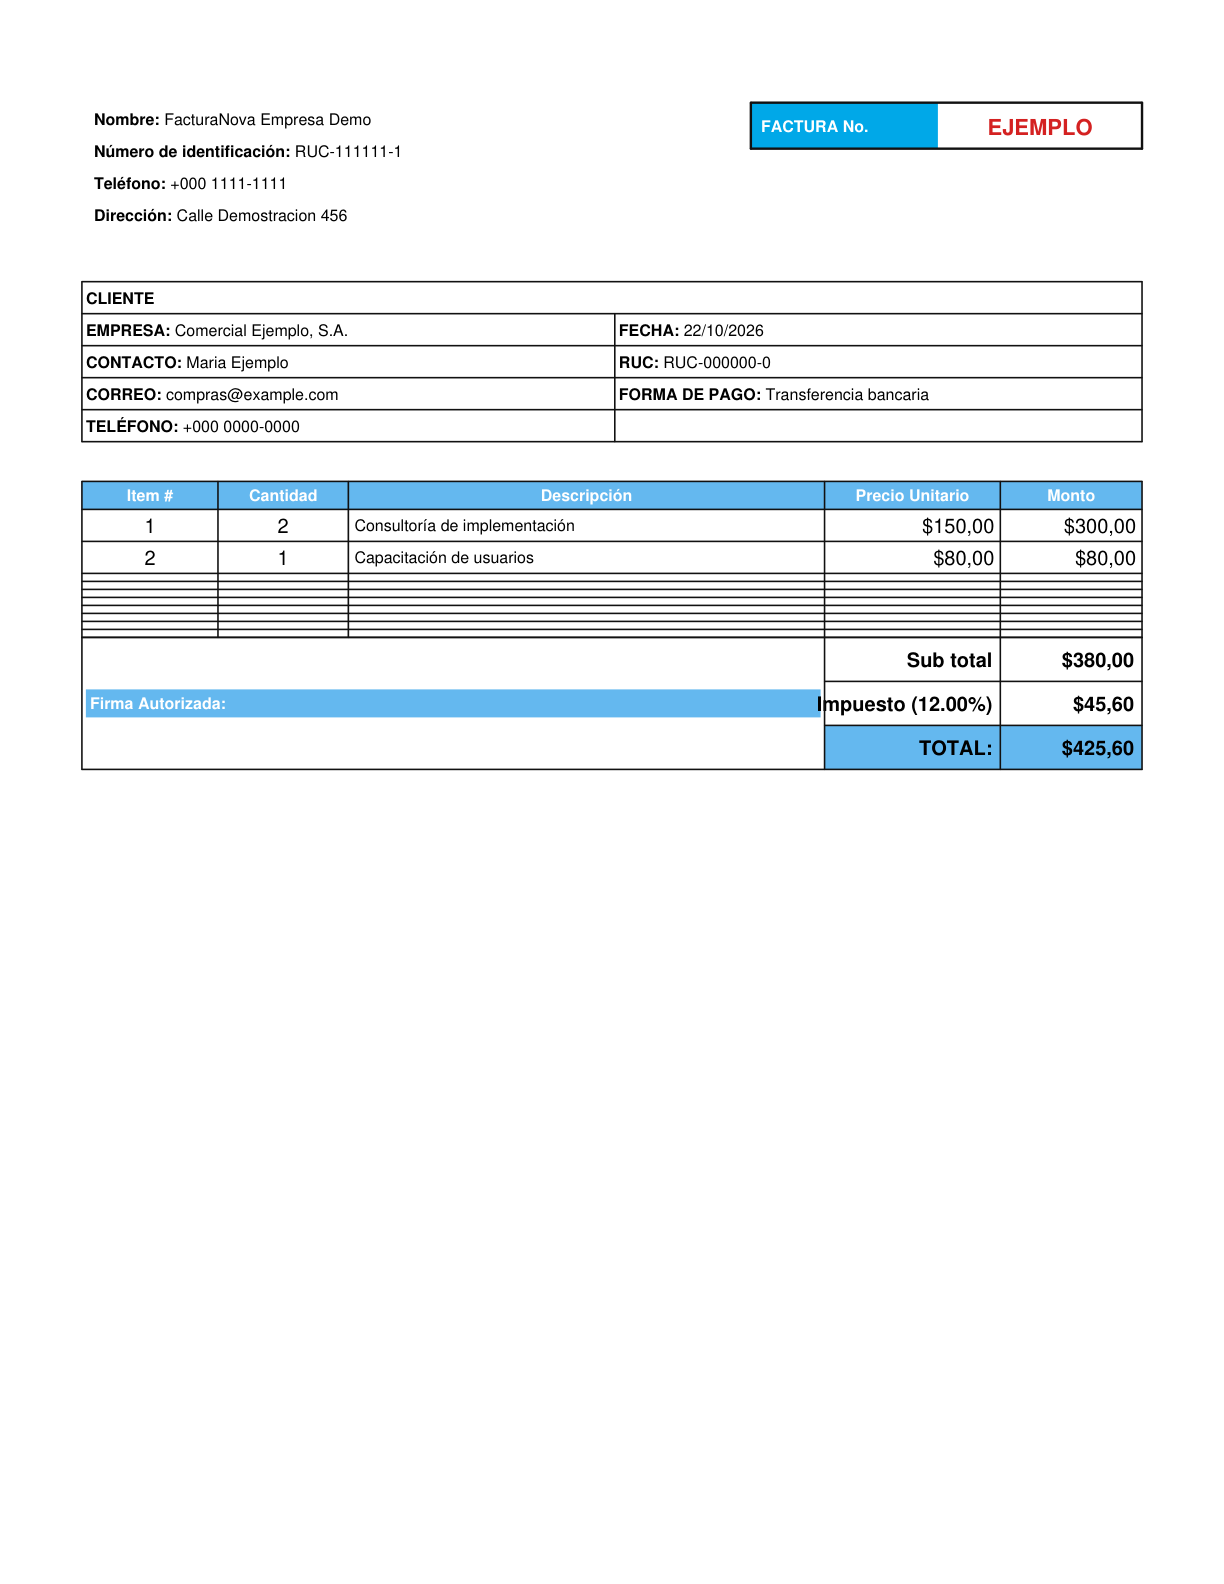
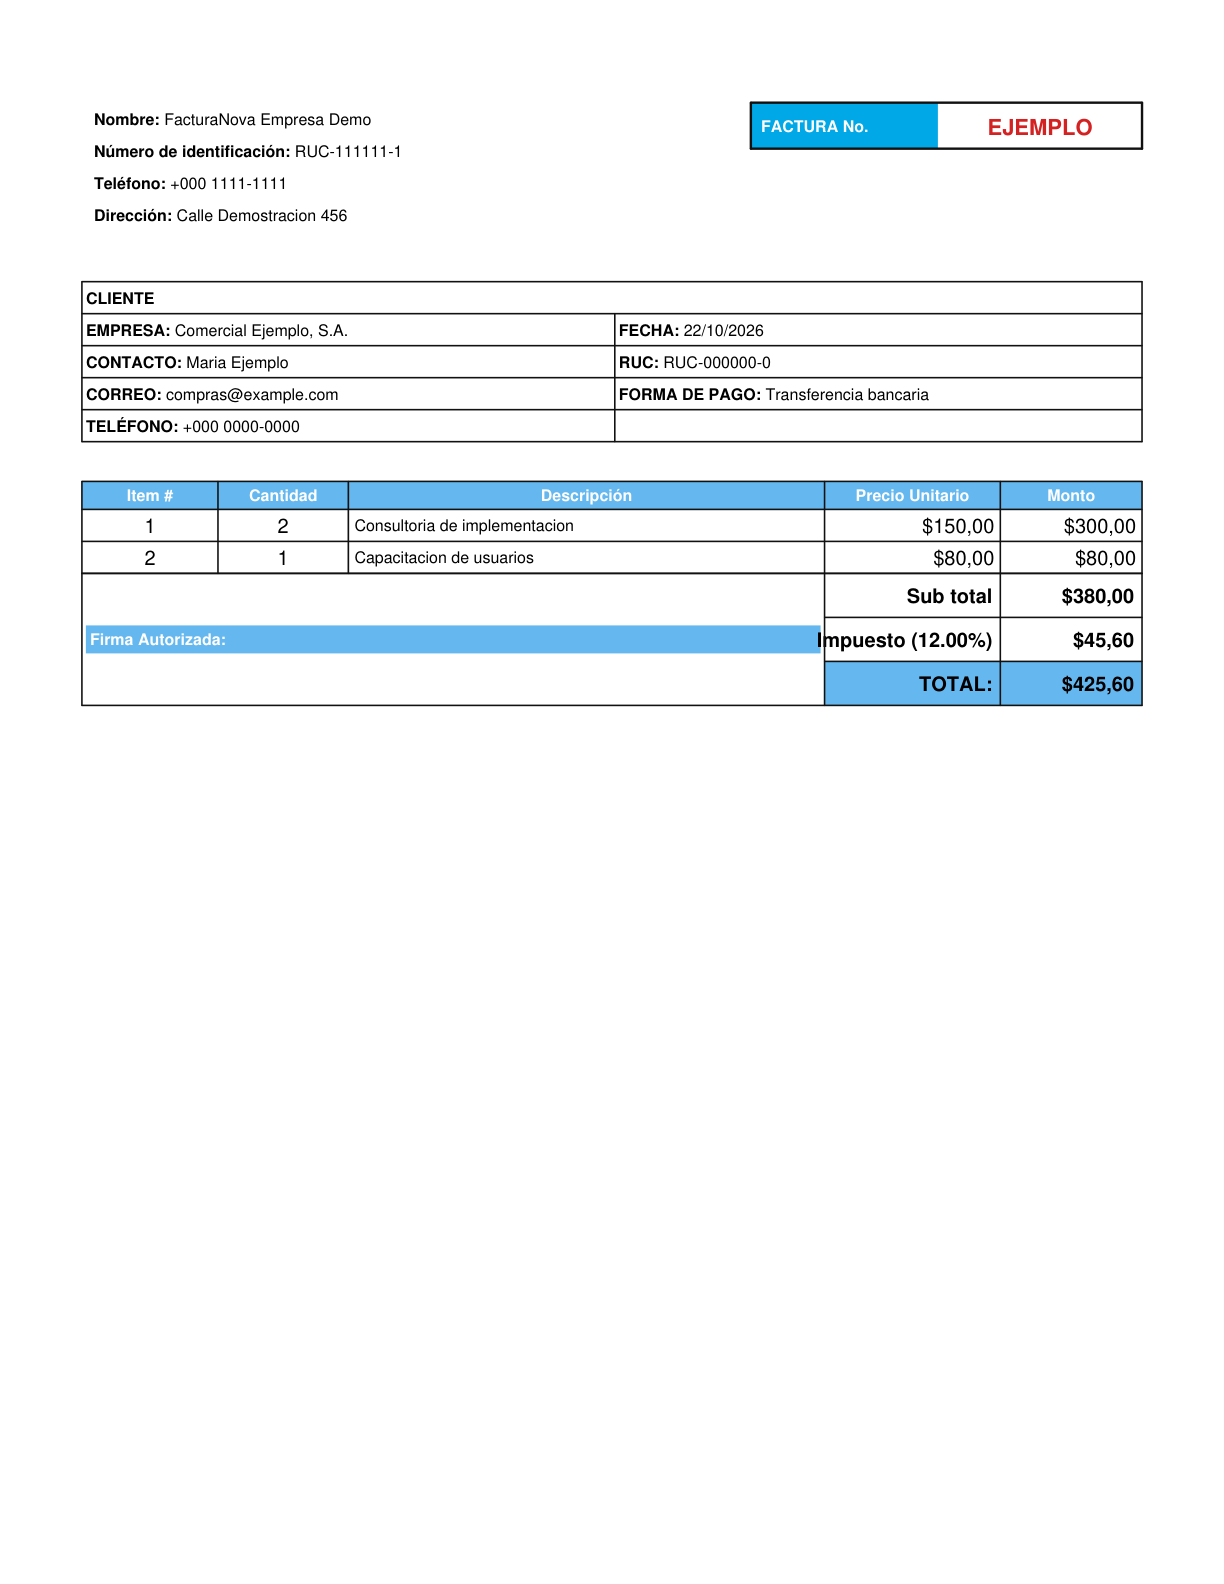
Quitar filas vacias del PDF
Actualiza el generador, la guía y los archivos de ejemplo.

Changed region(s): [[0.0621, 0.3093, 0.9314, 0.4949]]

diff --git a/app.py b/app.py
@@ -803,8 +803,6 @@ def invoice_pdf(invoice_id):
                 format_money(item.line_total, invoice.currency),
             ]
         )
-    for _ in range(max(0, 10 - len(invoice.items))):
-        item_rows.append([safe_paragraph(" ", "Small") for _ in range(5)])
     item_table = Table(
         item_rows,
         colWidths=[24 * mm, 23 * mm, 84 * mm, 31 * mm, 25 * mm],

diff --git a/GUIA_DE_USUARIO.md b/GUIA_DE_USUARIO.md
@@ -46,6 +46,7 @@ Completa el formulario **Nueva factura**:
 ![Formulario para crear una factura](docs/capturas/02-nueva-factura.png)
 
 El sistema calcula el subtotal, el impuesto y el total usando las cantidades y precios ingresados.
+El PDF final muestra únicamente las líneas con productos o servicios; no agrega filas vacías de relleno.
 
 ## 4. Revisar, editar o descargar el PDF
 
